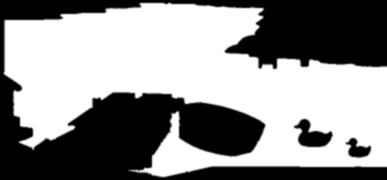
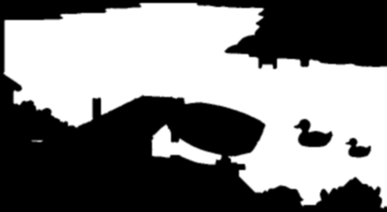
Snap Kesäilta's area seams to the drawn strokes
Big open regions were split by the AREAS polygons pixel by pixel, which left
straight cuts across sky, grass and flowers. Now the polygons act as seeds and
the band along each edge is flooded with a capped watershed on distance-to-line,
so seams land on the strokes. Neighbours share the smaller of their reaches so a
wide area can't swallow a small one. Small regions go by majority vote instead
of their centre point.

Retuned polygons for the sauna, forest, rocks, bushes, birches, lupines, flower
boxes, walls, lake and flower meadow. --debug --polys draws the polygons.

Changed region(s): [[0.0, 0.3333, 1.0, 1.0], [0.0, 0.0, 1.0, 0.3889]]

diff --git a/README.md b/README.md
@@ -53,7 +53,9 @@ browser (Settings → For parents → New version of this picture) with the same
 
 **Raster scenes**: you need a line-art PNG and a coloured PNG of the same picture. They don't need to line up exactly.
 The generator finds the enclosed regions in the line art and groups them into named areas using rough polygons
-(the `AREAS` list). It then writes one soft mask per area. Painting an area shows the coloured image through its mask.
+(the `AREAS` list). Where a big open region (sky, lake, grass) is split between areas, the seam snaps to the
+nearest drawn strokes, so the polygons only need to be roughly right. It then writes one soft mask per area. Painting an area shows the coloured image through its mask.
 To add another picture, copy `gen-kesailta.mjs`, point it at the new PNGs and adjust `AREAS`. Running with
-`--debug` writes `art/<name>-debug.png` so you can check which region went to which area. Finally, add the
+`--debug` writes `art/<name>-debug.png` so you can check which region went to which area
+(add `--polys` to draw the polygons on it too). Finally, add the
 scene to `SCENES`.
